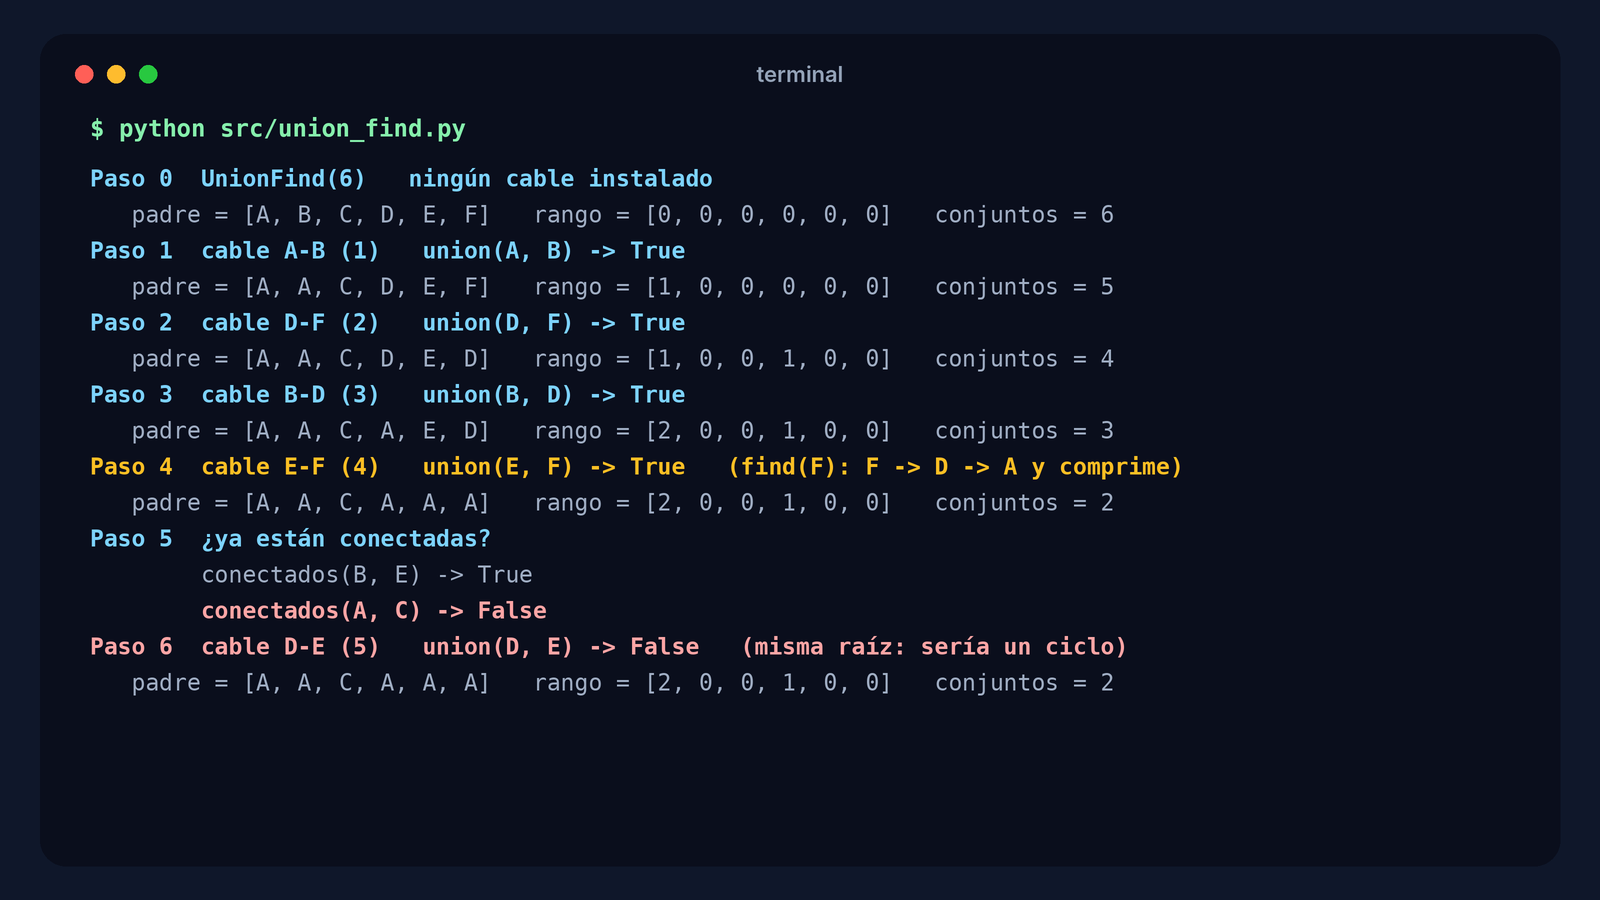
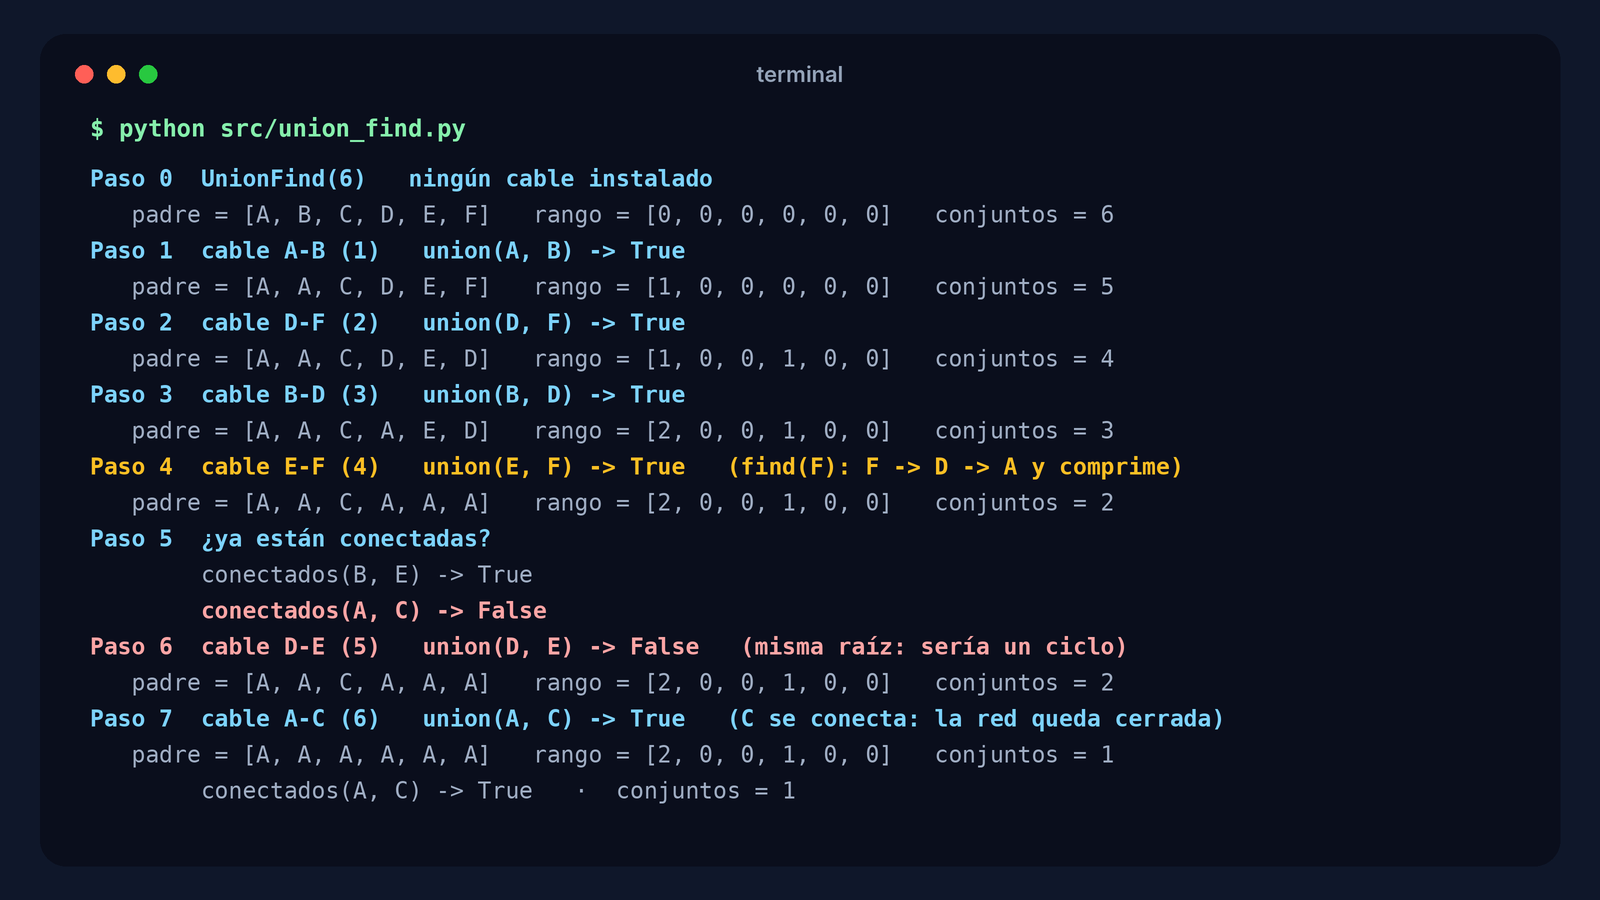
Sección 1: paso 7 cierra la red (cable A-C conecta la computadora C)
Claude-Session: https://claude.ai/code/session_018q6ER5Fw2jY3Pm3LUcESgR

diff --git a/docs/index.html b/docs/index.html
@@ -191,6 +191,10 @@ const UF_STEPS = [
    desc:"find(D) = find(E) = A: ya hay camino D–F–E, así que este cable cerraría un ciclo y se descarta.",
    th:["Detectar ciclos","Si <code>find(a) == find(b)</code>, union no cambia nada y devuelve False. Kruskal usa justo ese False para saber qué cable sobra."],
    run:(uf,log)=>{ const r=uf.union(3,4); log.push(["f",`Paso 6  cable D-E (5)   union(D, E) -> ${py(r)}   (misma raíz: sería un ciclo)`],["s",estado(uf)]); return r; }},
+  {op:"cable A–C · union(A, C)", tag:"Paso 7", color:"green", st:sts(6,4), cur:5, focus:["A","C"],
+   desc:"C era la única sin conectar: find(C) = C y rango 0 < 2, así que C cuelga de A. Las 6 computadoras quedan en un solo conjunto.",
+   th:["La red se cierra","<code>conjuntos</code> llega a 1: todas las computadoras comparten raíz. Es justo el cable A–C (6) con el que Kruskal termina en la sección 2."],
+   run:(uf,log)=>{ const r=uf.union(0,2); log.push(["h",`Paso 7  cable A-C (6)   union(A, C) -> ${py(r)}   (C se conecta: la red queda cerrada)`],["s",estado(uf)],["p",`        conectados(A, C) -> ${py(uf.conectados(0,2))}  ·  conjuntos = ${uf.conjuntos}`]); return r; }},
 ];
 
 /* ---------- Sección 2: Kruskal (kruskal.py) ---------- */

diff --git a/tools/gen_media.py b/tools/gen_media.py
@@ -261,6 +261,13 @@ uf_step(T + "paso6.png", "Paso 6", "cable D–E  ·  union(D, E)",
          "Kruskal usa justo este False."],
         sts(4, 4), 4, set(), 2, {3: RED, 4: RED},
         badge=("False · ciclo", RED, RED_BG), color=RED)
+uf_step(T + "paso7.png", "Paso 7", "cable A–C  ·  union(A, C)",
+        "C era la única sin conectar: find(C) = C, rango 0 < 2, así que C cuelga de A.",
+        [0, 0, 0, 0, 0, 0], [2, 0, 0, 1, 0, 0],
+        ["Ya están las 6 computadoras", "en un solo conjunto:", "", "  conjuntos = 1", "  conectados(A, C) → True", "",
+         "La red quedó cerrada."],
+        sts(6, 4), 5, {(0, 2)}, 1, {2: GREEN}, hot_edge=(2, 0),
+        badge=("True · red cerrada", GREEN, GREEN_BG), color=GREEN)
 
 # ================= Sección 2 · Kruskal =================
 def k_step(name, k, paso, titulo, sub, teoria, color, changed=()):

diff --git a/tests/test_union_find.py b/tests/test_union_find.py
@@ -40,3 +40,13 @@ def test_kruskal():
     arbol, costo = kruskal(6, CABLES)
     assert costo == 16
     assert [(u, v) for u, v, _ in arbol] == [("A", "B"), ("D", "F"), ("B", "D"), ("E", "F"), ("A", "C")]
+
+
+def test_red_cerrada():
+    uf = UnionFind(6)
+    for u, v in [("A", "B"), ("D", "F"), ("B", "D"), ("E", "F")]:
+        uf.union(ID[u], ID[v])
+    assert uf.union(ID["D"], ID["E"]) is False   # sobra: ciclo
+    assert uf.union(ID["A"], ID["C"]) is True    # C se conecta
+    assert uf.conjuntos == 1                     # una sola red
+    assert all(uf.conectados(0, i) for i in range(6))

diff --git a/src/union_find.py b/src/union_find.py
@@ -64,6 +64,11 @@ def demo():
     print("Paso 6  cable D-E (5)   union(D, E) ->", uf.union(ID["D"], ID["E"]),
           "  (misma raíz: sería un ciclo)")
     print(estado(uf))
+    print("Paso 7  cable A-C (6)   union(A, C) ->", uf.union(ID["A"], ID["C"]),
+          "  (C se conecta: la red queda cerrada)")
+    print(estado(uf))
+    print("        conectados(A, C) ->", uf.conectados(ID["A"], ID["C"]),
+          "  ·  conjuntos =", uf.conjuntos)
     return uf
 
 

diff --git a/README.md b/README.md
@@ -260,7 +260,17 @@ raíz. No se recorre la red, solo se hacen dos `find`.
 
 **Teoría:** `find(D) = find(E) = A`, así que ya existe el camino `D–F–E`. Este
 cable solo cerraría un **ciclo**: `union` corta en el primer `if` y regresa
-**`False`** sin tocar nada. Es exactamente la señal que usa Kruskal.
+**`False`** sin tocar nada. No es un error: es la señal que usa Kruskal para
+saltarse un cable que sobra.
+
+### Paso 7 · cable A–C (6) · `union(A, C)` cierra la red
+
+![Paso 7](media/s1_paso7.png)
+
+**Teoría:** `find(C) = C` es raíz distinta de `A`, y `rango[C] = 0 < rango[A] = 2`,
+así que **C cuelga de A**. `conjuntos` baja a **1**: las 6 computadoras quedan en
+un solo conjunto y `conectados(A, C)` ya regresa `True`. Es el mismo cable con el
+que Kruskal termina en la sección 2.
 
 ### Lo que imprime
 
@@ -283,6 +293,9 @@ Paso 5  ¿ya están conectadas?
         conectados(A, C) -> False
 Paso 6  cable D-E (5)   union(D, E) -> False   (misma raíz: sería un ciclo)
    padre = [A, A, C, A, A, A]   rango = [2, 0, 0, 1, 0, 0]   conjuntos = 2
+Paso 7  cable A-C (6)   union(A, C) -> True   (C se conecta: la red queda cerrada)
+   padre = [A, A, A, A, A, A]   rango = [2, 0, 0, 1, 0, 0]   conjuntos = 1
+        conectados(A, C) -> True   ·  conjuntos = 1
 ```
 
 ---
